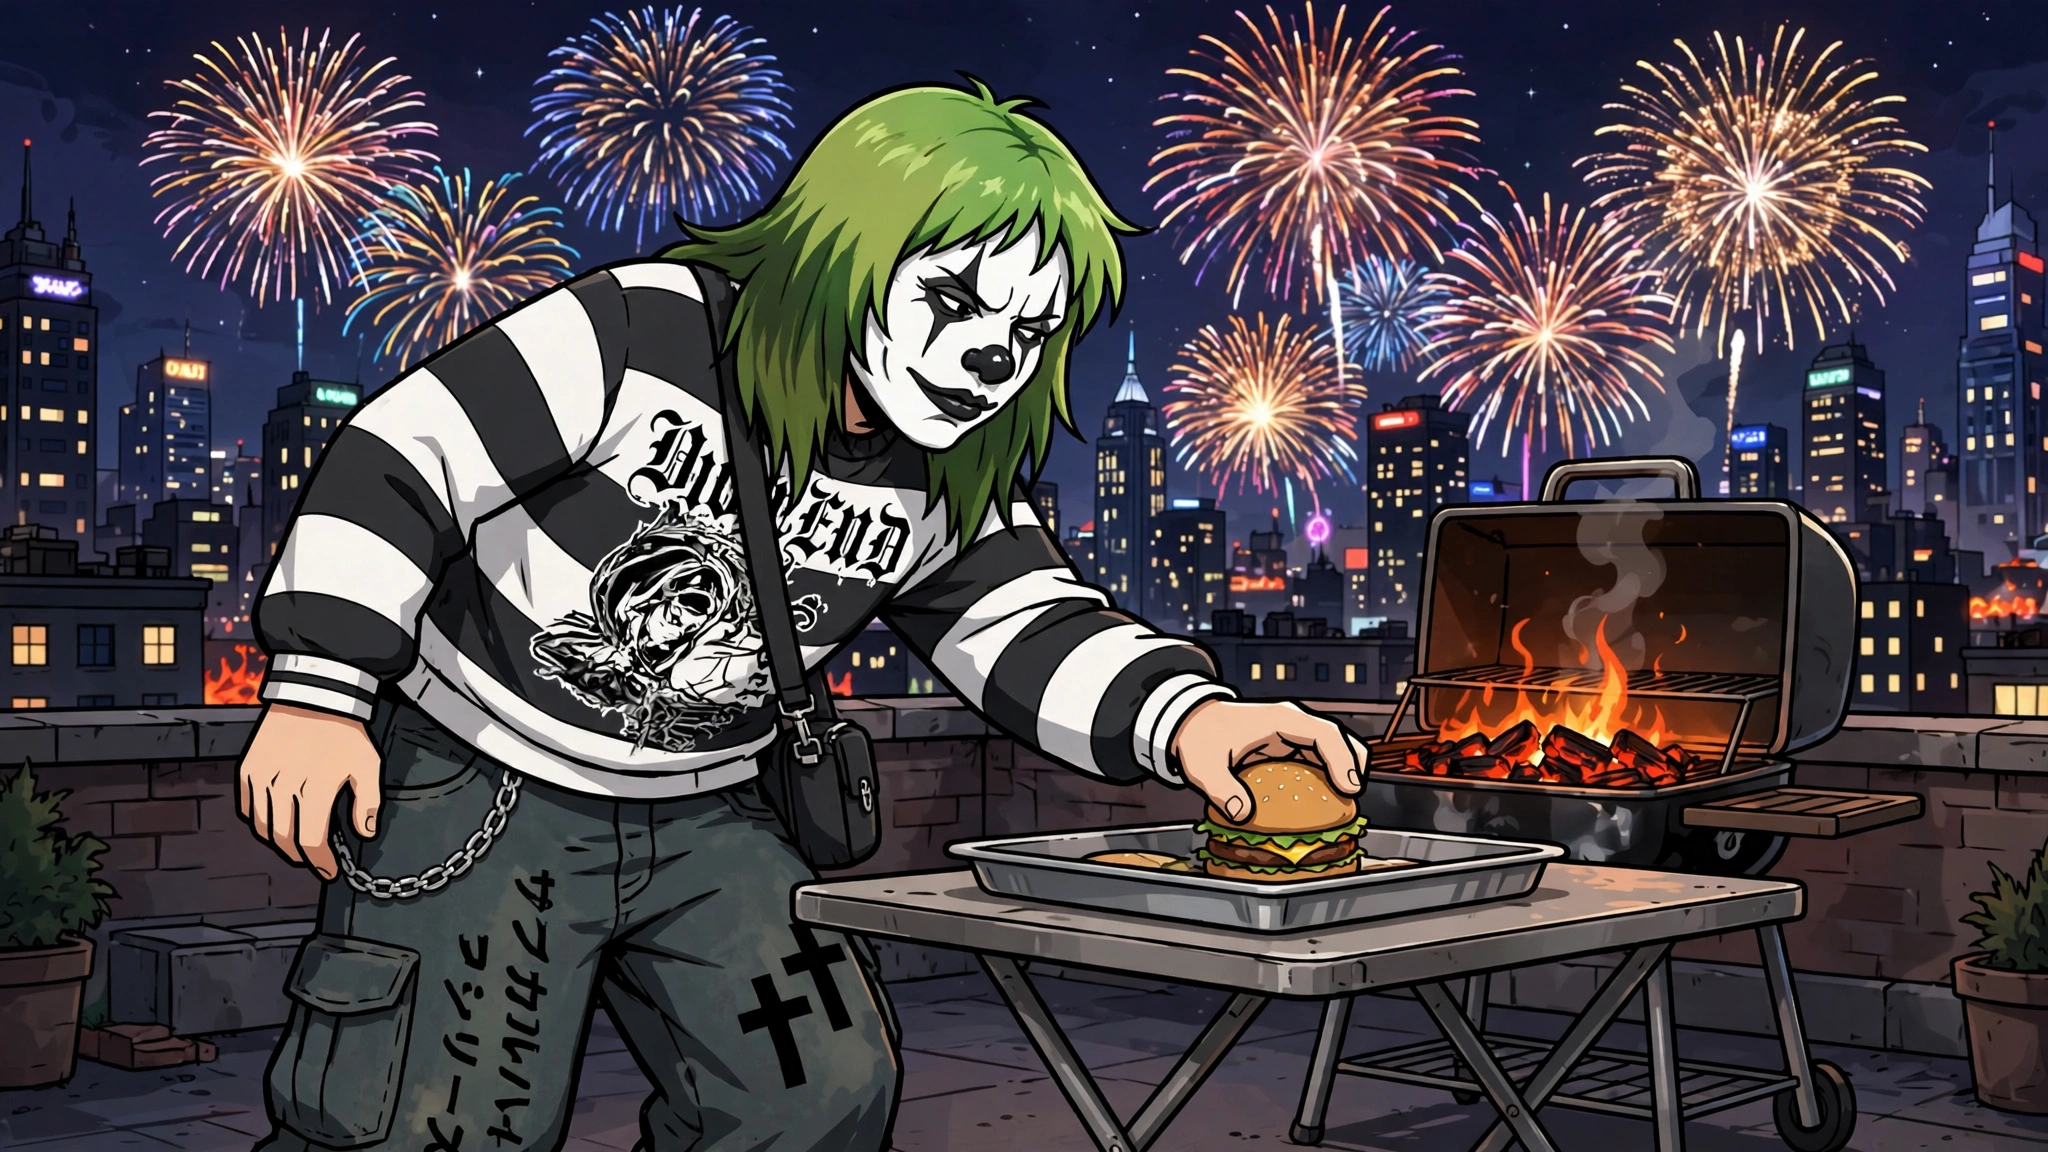
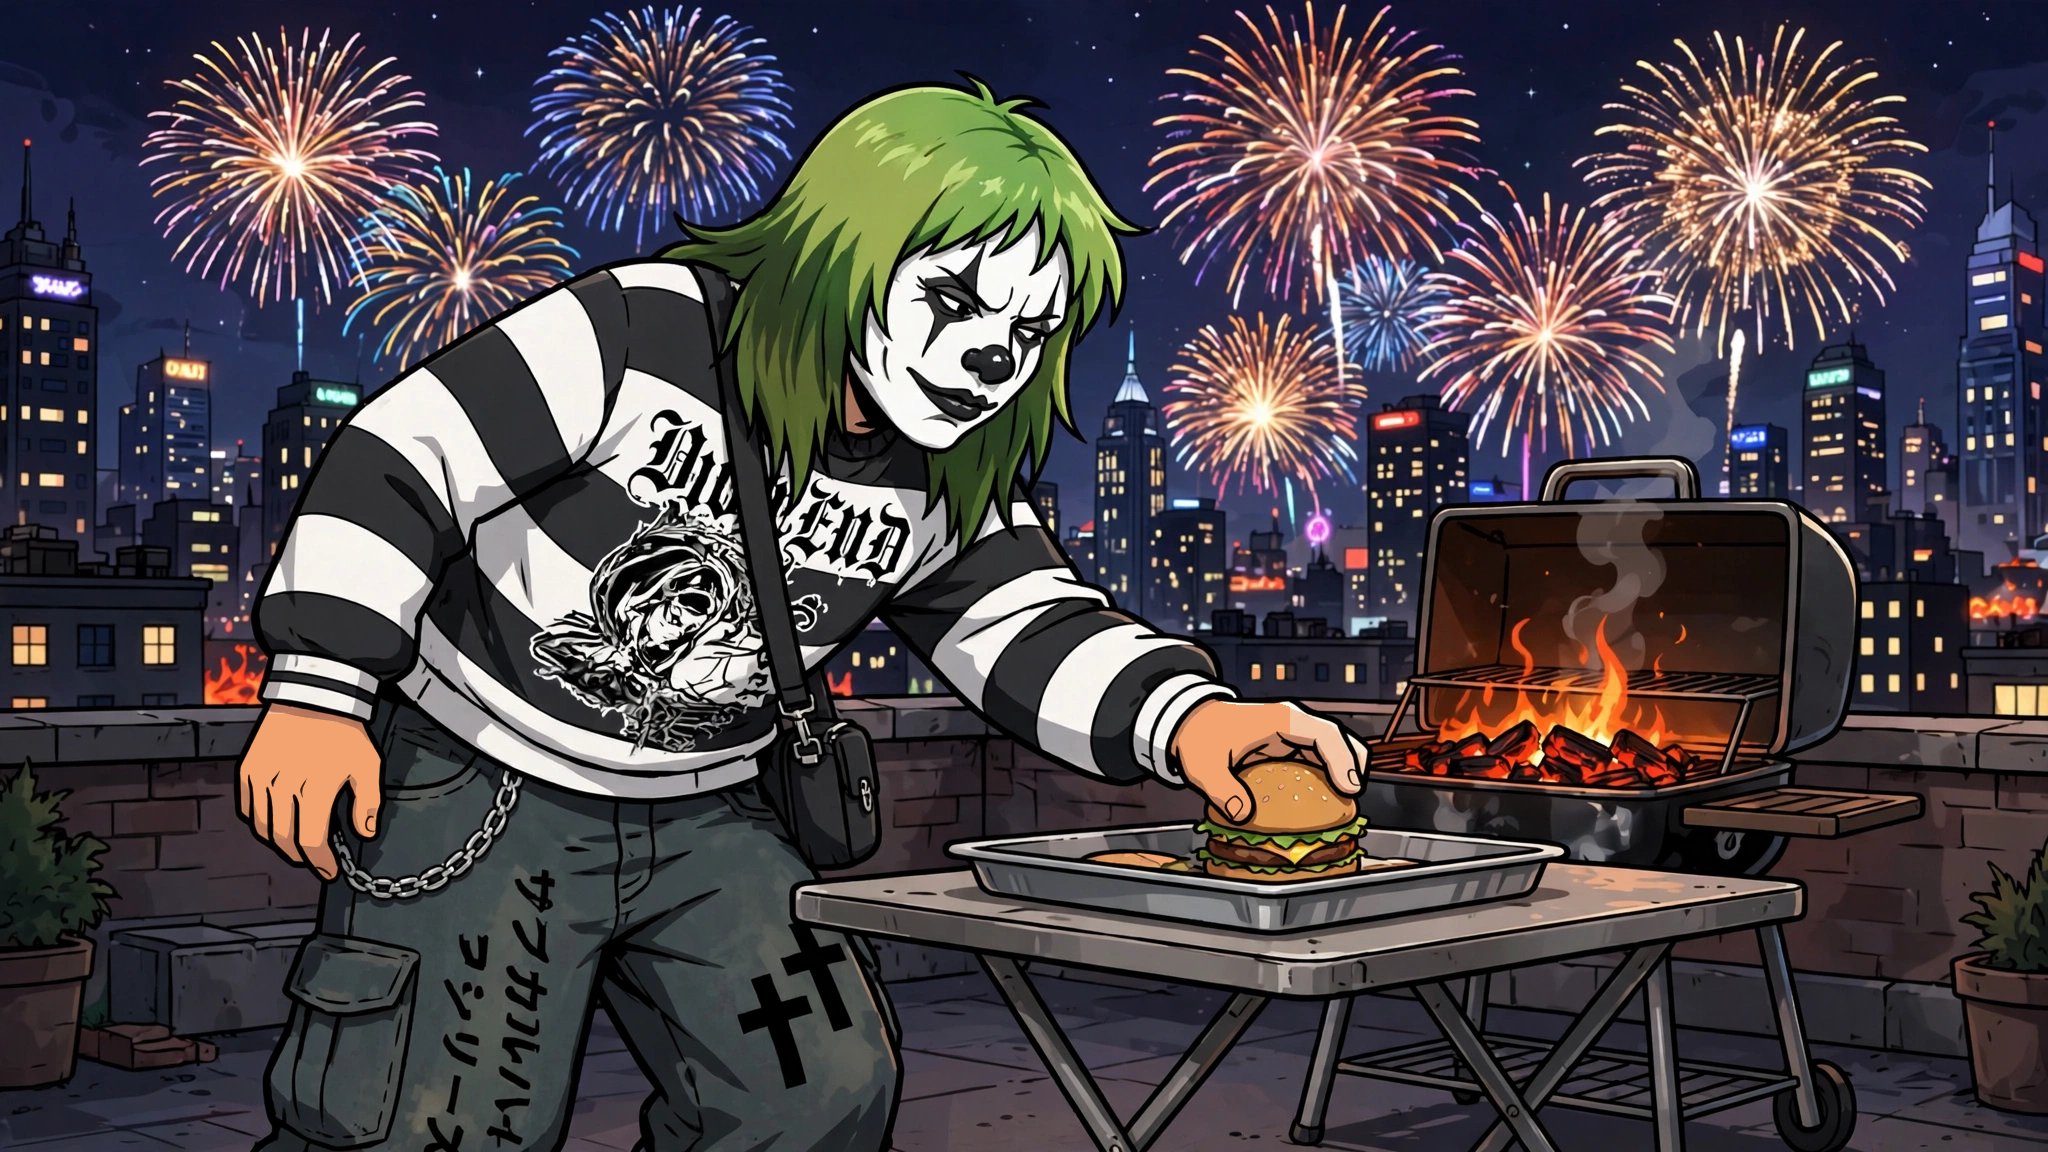
EP02: fix Onyx whitewashed hands in 27-1 (recolored to canon #986646); lock skin tone in likeness bible

Changed region(s): [[0.0938, 0.625, 0.1875, 0.75], [0.5625, 0.5938, 0.625, 0.7188]]

diff --git a/production/WIZARD_GANG_EP01/EP02_LIKENESS_BIBLE.md b/production/WIZARD_GANG_EP01/EP02_LIKENESS_BIBLE.md
@@ -364,3 +364,8 @@ Every shot lists its characters and the anchor file for each. The generator prom
 a character cites the anchor file BY NAME. Verification is visual: the checker opens
 the anchor card and the shot frame side by side and confirms face/body/attire/pendant
 before the shot ships. Visual FAIL overrides any numerical pass.
+
+## ONYX CARTOON SKIN TONE (owner 2026-10-07 — anti-whitewash lock)
+- **#986646** (rgb 152,102,70) — sampled via dropper from her hand in ep02-shot-11-3.png (correct).
+- Onyx is a BLACK woman: body skin is ALWAYS this tone. Her FACE is fully painted white (clown-style, canon) — the white face is paint, never her skin.
+- Defect caught 2026-10-07: ep02-shot-27-1.png rendered her HANDS pale/whitewashed. Every Onyx render must have hands/body checked against #986646 before approval.
